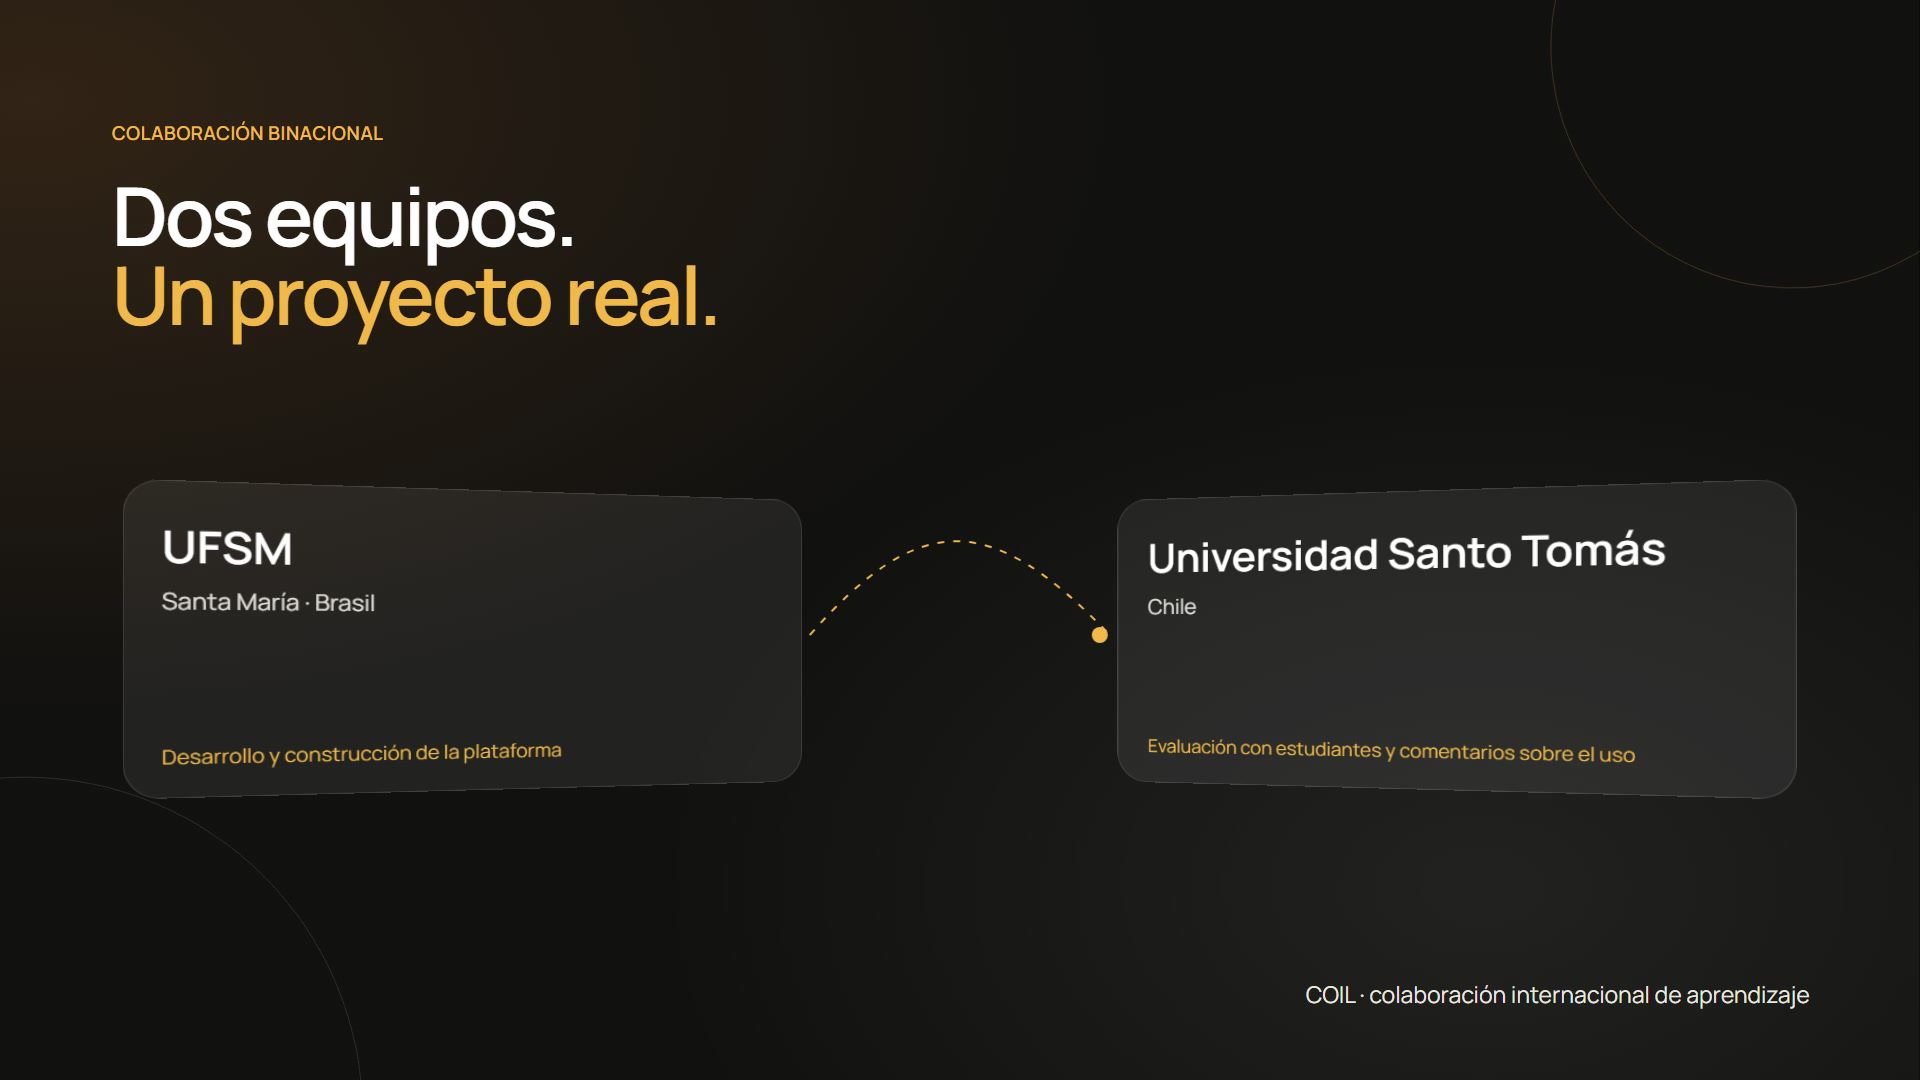
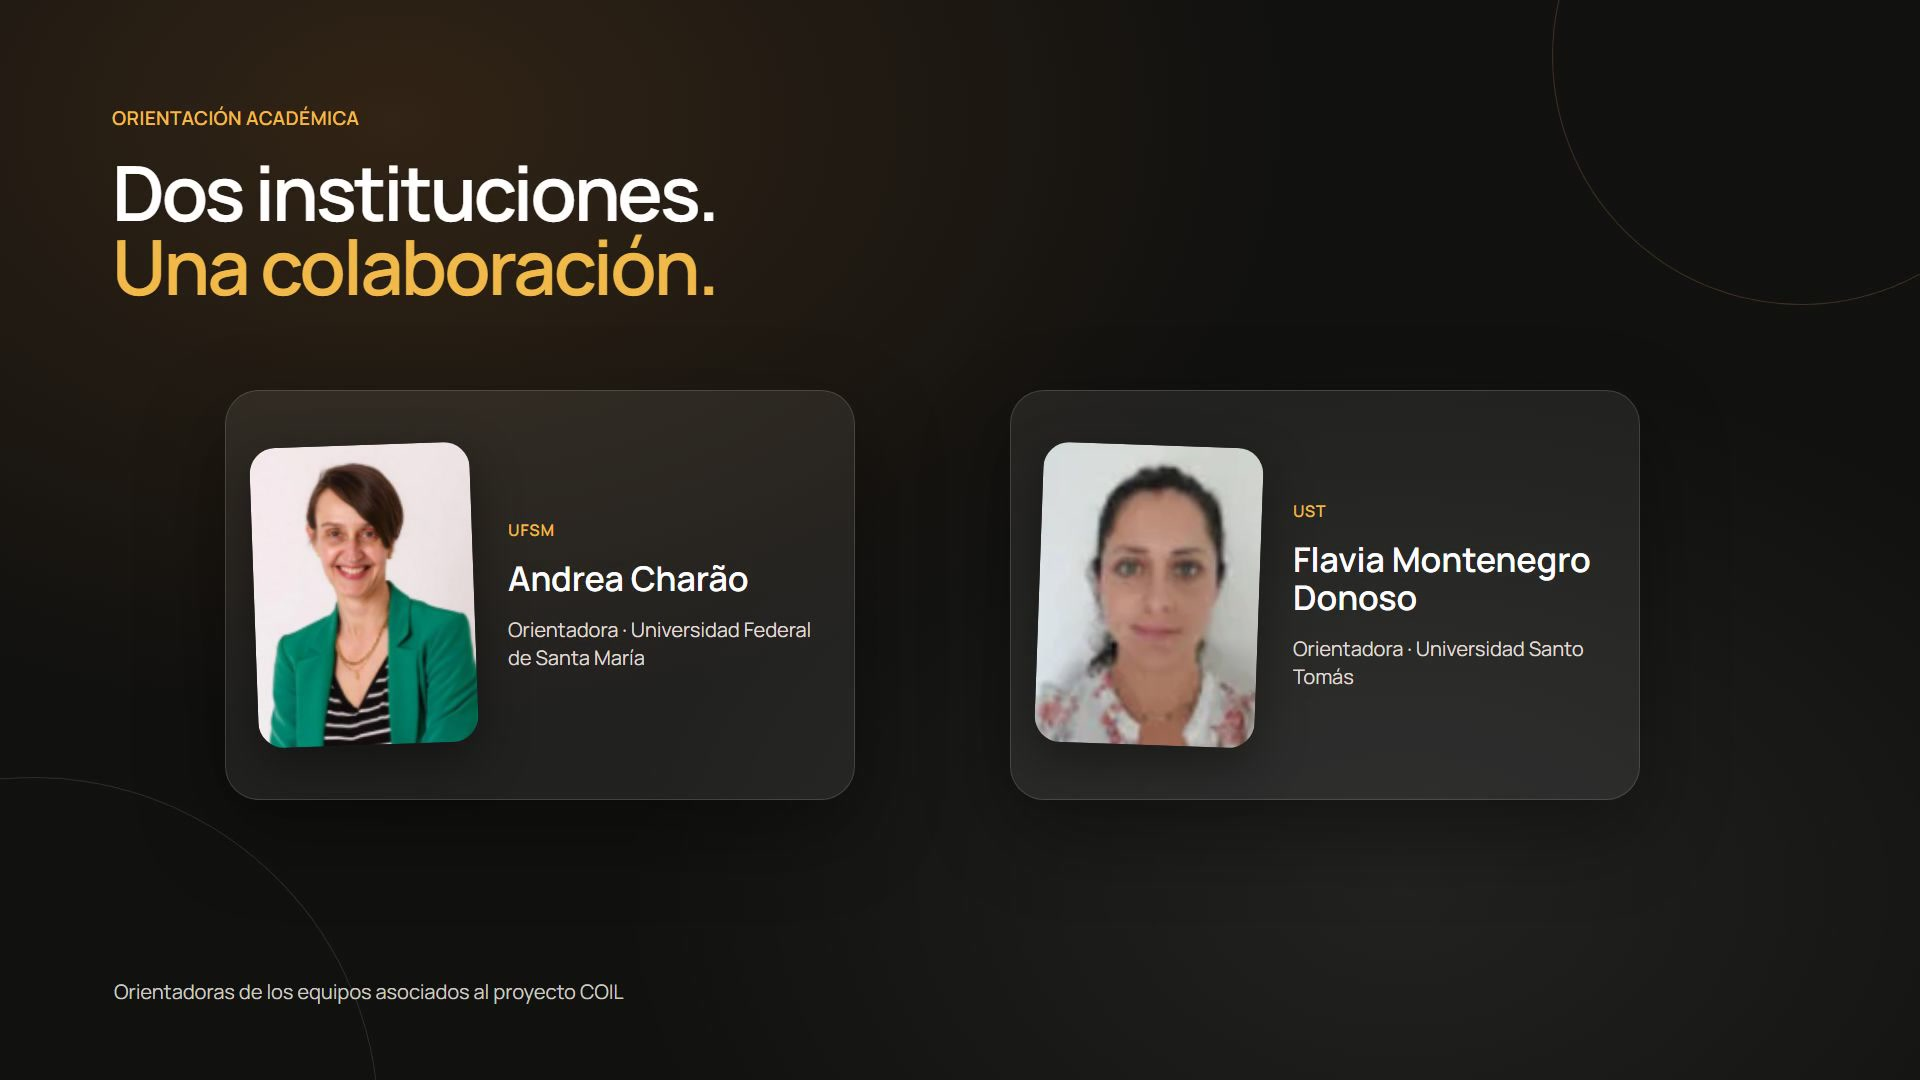
Use Spanish frames for video posters

diff --git a/client/src/components/HowItWorks.jsx b/client/src/components/HowItWorks.jsx
@@ -56,7 +56,7 @@ function HowItWorks() {
             preload="metadata"
             playsInline
             key={language}
-            poster="/triviavideo-poster.jpg"
+            poster={language === 'es' ? '/trivia-anatomica-demonstracao-es-cl-poster.jpg' : '/triviavideo-poster.jpg'}
             aria-label={t.home.howItWorks.videoLabel}
           />
         </div>

diff --git a/client/src/components/AboutCoil.jsx b/client/src/components/AboutCoil.jsx
@@ -35,7 +35,7 @@ function AboutCoil() {
             preload="metadata"
             playsInline
             key={language}
-            poster="/video2-poster.jpg"
+            poster={language === 'es' ? '/trivia-anatomica-making-of-es-cl-poster.jpg' : '/video2-poster.jpg'}
             aria-label={t.home.about.videoLabel}
           />
         </div>
